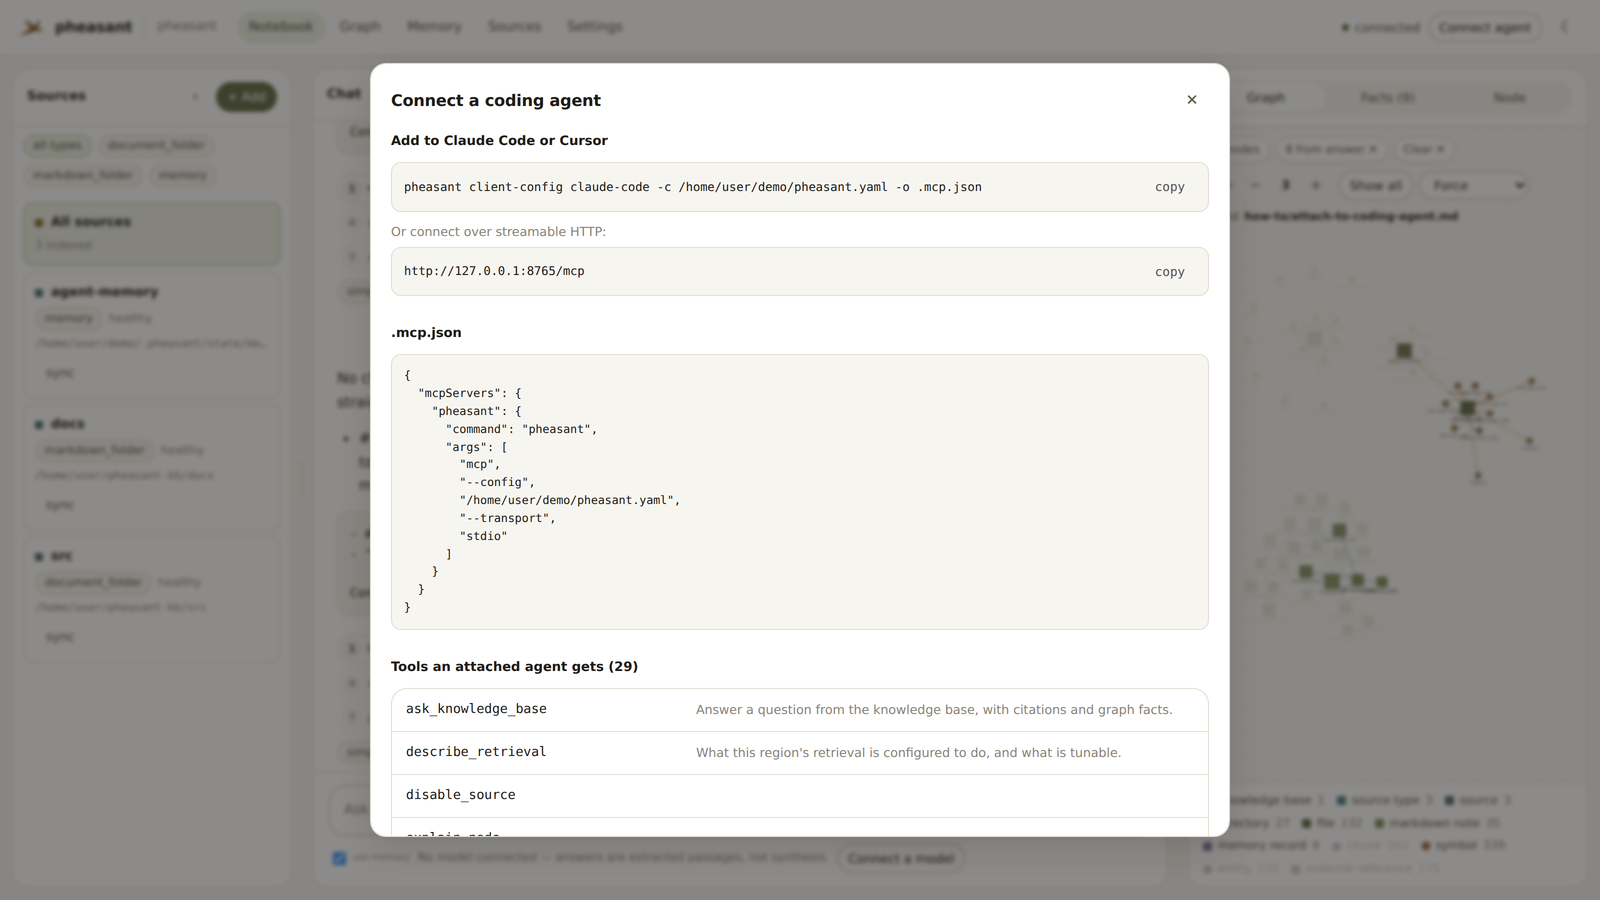
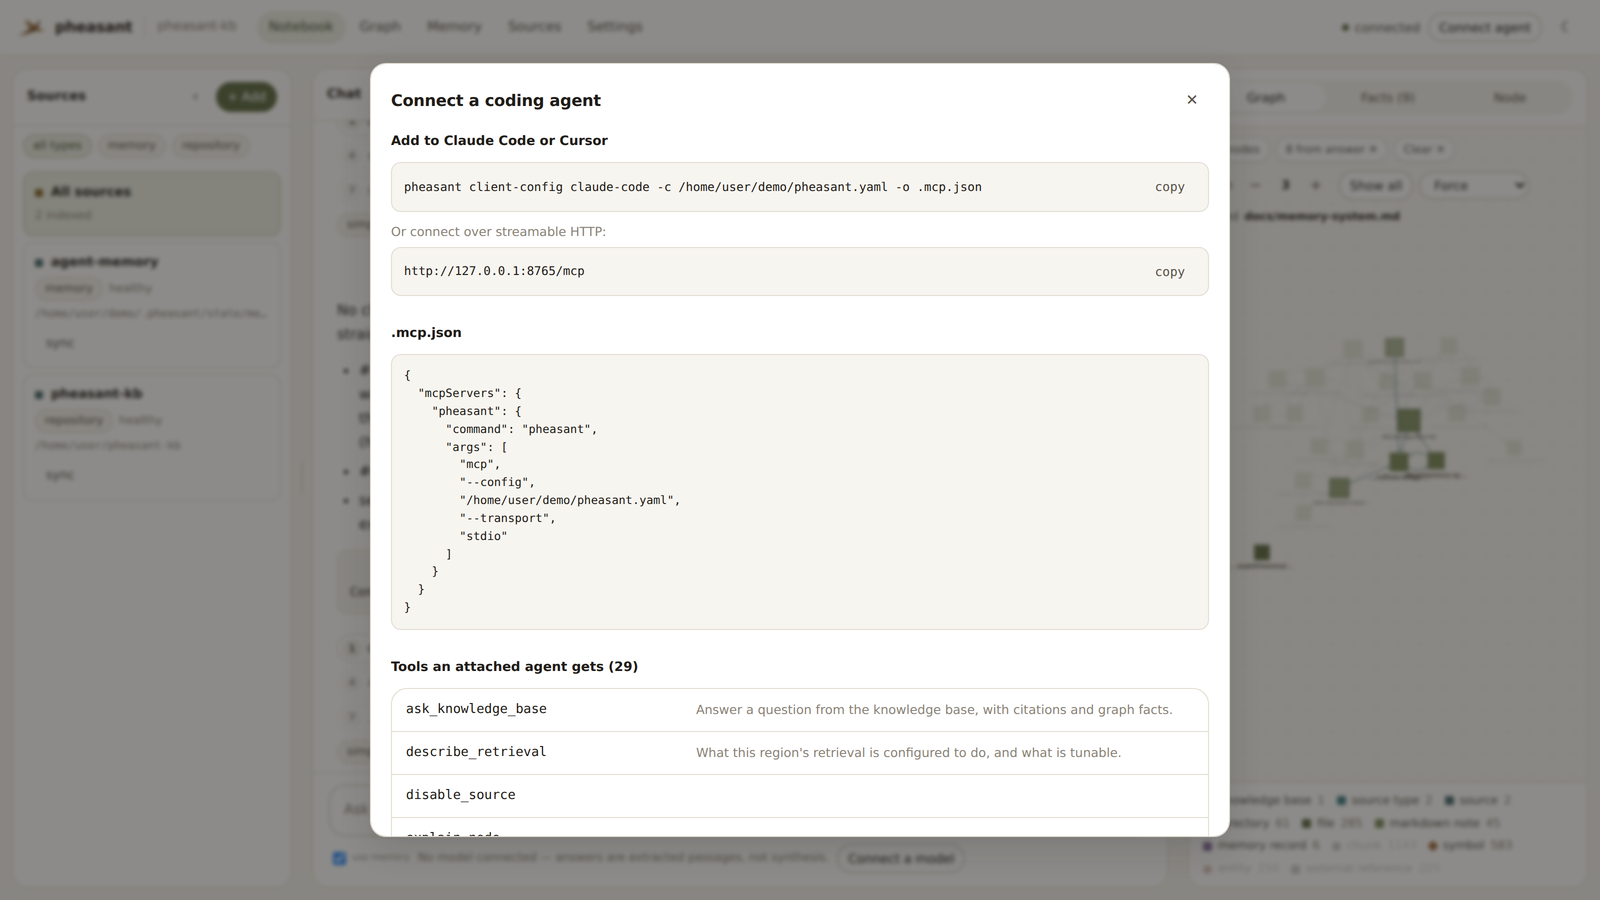
docs(readme): recapture the screenshots against the repo itself
The demo behind the screenshots pointed at `docs/` and `src/` as two
loose folders, which is not what anyone actually does with pheasant and
is not what the surrounding prose describes. It now indexes the
repository — `pheasant up /home/user/pheasant-kb`, detected as a
`repository` source, 330 files and 2,603 graph nodes in 2.6 s — so the
sources table, the rail and the graph all show a real git repo and its
agent-memory source side by side.

The workspace shot also asks a better second question: memory recall,
which is what the README's central section is about, and whose top
passage is the memory-system explainer rather than a mid-chunk fragment
of this README quoting itself.

Claude-Session: https://claude.ai/code/session_01H3pFUR1t6jouDq94ThNWdr

diff --git a/README.md b/README.md
@@ -78,7 +78,7 @@ same evidence comes back synthesised into prose, with the same citations.
 heading, entity and memory record is a node with a stable, documented ID; hubs,
 orphans and shortest paths are how you audit what a retrieval will walk through.
 
-![The graph explorer, showing the knowledge base, its sources and their files](docs/assets/ui/graph.png)
+![The graph explorer, showing the knowledge base, its sources and the files under them](docs/assets/ui/graph.png)
 
 **Memory you can read, and correct.** Everything an agent has asserted, by scope
 and subject — with the record it replaced shown underneath, because a correction
@@ -90,7 +90,7 @@ supersedes rather than overwrites.
 the rest; each source syncs, promotes into `pheasant.yaml`, or goes away, on its
 own schedule.
 
-![The sources page, listing a memory source and two indexed folders](docs/assets/ui/sources.png)
+![The sources page, listing an indexed git repository and its memory source](docs/assets/ui/sources.png)
 
 **Then hand it to an agent.** One command writes the MCP client config for
 Claude Code, Cursor or VS Code; an attached agent gets the whole tool surface —
